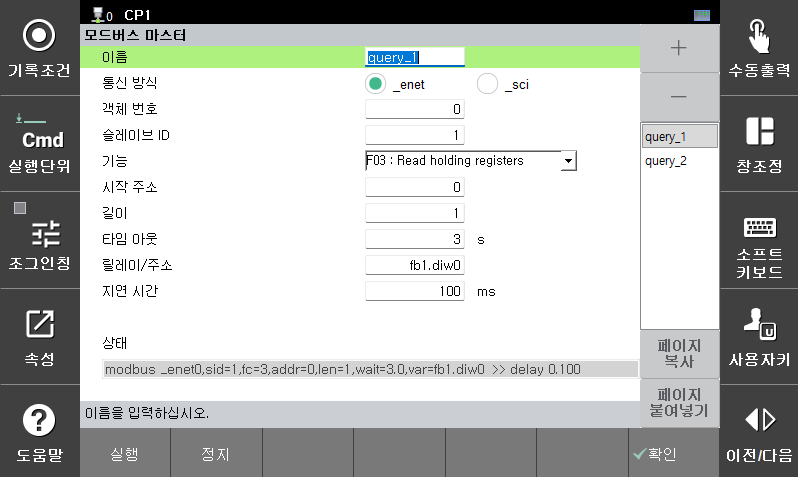
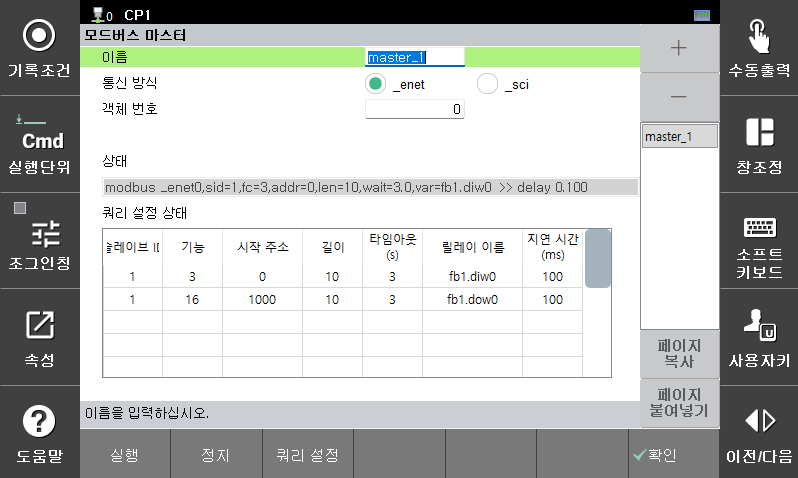
[HIXM-4880] 모드버스 마스터 기능 개발

diff --git a/book.md b/book.md
@@ -5,7 +5,7 @@
 [__SOURCE](0-about-this-manual/precautions.md)
 # 사전 주의사항
 
-{% include url="https://hrcontentsrelay-bmgae5hdbzapc4bc.koreacentral-01.azurewebsites.net/api/proxy?path=doc-common-pages/ko/precautions.md" %}
+{% include file="ko/precautions.md" %}
 
 [__SOURCE](1-intro/README.md)
 # 1. 개요
@@ -69,13 +69,16 @@ ${cont_model} 로봇 제어기는 시리얼 통신과 이더넷 통신에 의한
 
 
 ### <mark style="color:green;">5. 지원 펑션</mark>
+* 01: read coils (bits)
+* 02: read discrete inputs (bits)
+* 03: read holding registers 
+* 04: read input registers (multiple)
+* 05: write single coil (bit)
+* 06: write single holding register
+* 15: write coils (bits)
+* 16: write holding registers (multiple)
 
-| **운영 방식** |         **시리얼 / 이더넷 통신**                                                                                                                                                                                                                                                                                                                                                                                     |
-| :-------: | ------------------------------------------------------------------------------------------------------------------------------------------------------------------------------------------------------------------------------------------------------------------------------------------------------------------------------------------------------------------------------------------------------------ |
-| Master 운영 | <ul><li>03: read holding registers (multiple)</li><li>16: write holding registers (multiple)<li>04: read input registers (multiple)</li></li></ul>                                                                                                                                                                                                                                                                                                       |
-|  Slave 운영 | <ul><li>01: read coils (bits)</li><li>02: read discrete inputs (bits)</li><li>03: read holding registers (multiple)                                                              </li><li>04: read input registers (multiple)</li><li>05: write single coil (bit)</li><li>06: write single holding register</li><li>15: write coils (multiple bits)</li><li>16: write holding registers (multiple)</li></ul> |
-
-
+<br>
 
 ### <mark style="color:green;">6. 슬레이브 주소</mark>
 
@@ -274,9 +277,9 @@ modbus _enet0,sid=1,fc=3,addr=0,len=10,wait=3.0,var=_mw10  # 이더넷통신
 | :---: | ------------------------------------------------------------------------------------------------------- | :-------: |
 | _sci2 or _enet0 | <p>시리얼포트 또는 이더넷객체 (str)</p><ul><li>_sci2 : 시리얼포트 2</li><li>_enet0 : 이더넷객체 0</li></ul>                                         | "_sci2" or "_enet0" |
 | sid  | 슬래이브 ID(1~247) (int)                                                      | 1 |
-| fc | <p>펑션코드 (int)</p><ul><li>3 : read holding registers</li><li>16 : write holding registers</li><li>4 : read input registers</li></ul>                                         | 3 / 16 / 4 |
+| fc | 펑션코드 (int), 2.5 지원 펑션 참고                     | 3 / 16 |
 | addr  | 슬래이브의 시작주소 (0~65534) (int)                                                       | 0 |
-| len  | 데이터 개수 (1~127) (int)                                                     | 10 |
+| len  | 데이터 개수 (words : 1~127, bits : 1~2000) (int)                                                     | 10 |
 | wait  | timeout 시간 (sec) (double), 지정하지 않으면 무한대기                                                       | 3.0 |
 | var  | int형 배열 변수, 데이터 메모리(_mw0), 입력신호(fb2.diw0), 출력신호(fb3.dow0)                                                       | arr / _mw0 / fb1.diw0 |
 
@@ -309,22 +312,23 @@ Hyundai Robot Job File; { version: 2.0, mech_type: "", total_axis: -1, aux_axis:
 
 
 **\[시스템 > 2: 제어 파라미터 > 9: 네트워크 > 2: 서비스 > 5: 모드버스 마스터]** 화면에서 설정합니다. <br>
-"+"버튼을 사용하여 쿼리를 추가할 수 있으며 또한 현재 쿼리 실행 상태에 대한 모니터링이 가능합니다. <br>
+"+"버튼을 사용하여 마스터를 추가할 수 있습니다. <br>
 
 ![](../_assets/image33.png)
 
 [정지] 버튼으로 마스터 실행을 강제로 정지할 수 있으며 [실행] 버튼으로 다시 실행할 수 있습니다. <br>
+[쿼리 설정] 버튼으로 쿼리를 구성할 수 있습니다. <br>
 제어기 부팅후에는 설정된 쿼리가 순차적으로 자동으로 실행됩니다. <br>
 
 
 *   **이름**
 
-    쿼리 객체의 이름입니다. 각각의 이름은 반드시 "query_?"로 설정되어야 합니다.
+    마스터 객체의 이름입니다. 각각의 이름은 반드시 "master_?"로 설정되어야 합니다.
 
 
 *   **통신 방식**
 
-    이더넷 통신 또는 시리얼 통신의 통신 방식을 선택합니다.
+    해당 마스터의 통신 방식을 선택합니다. (이더넷 또는 시리얼)
 
 
 *   **객체 번호**
@@ -333,17 +337,29 @@ Hyundai Robot Job File; { version: 2.0, mech_type: "", total_axis: -1, aux_axis:
     시리얼 통신의 경우는 현재 2만 사용이 가능합니다. 
 
 
+*   **상태**
+
+    동작중 쿼리의 실행 상태를 로봇언어 명령어로 구성하여 표시합니다. 동작이 정지된 경우에는 "Stopped"를 표시합니다. 
+
+*   **쿼리 설정 상태**
+
+    해당 마스터에 구성된 쿼리의 설정 상태를 표시합니다. 
+<br>
+<br>
+
+![](../_assets/image34.png)
+
+[추가] 버튼으로 새로운 쿼리를 추가할 수 있으며 [삭제하기] 버튼으로 해당 쿼리를 삭제할 수 있습니다. <br>
+
+
 *   **슬레이브 ID**
 
     슬레이브 ID(1~247)를 설정합니다.
 
 
-*   **기능**
+*   **펑션**
 
-    펑션코드를 설정합니다. <br>
-    F03 : read holding registers <br>
-    F16 : write holding registers <br>
-    F04 : read input registers <br>
+    펑션코드를 설정합니다. [펑션 정보] 버튼으로 지원하는 펑션들을 확인할 수 있습니다. <br>
 
 
 *   **시작 주소**
@@ -353,7 +369,7 @@ Hyundai Robot Job File; { version: 2.0, mech_type: "", total_axis: -1, aux_axis:
 
 *   **길이**
 
-    데이터 개수(1~127)를 설정합니다. 
+    데이터 개수(words : 1~127, bits : 1~2000)를 설정합니다. 
 
 
 *   **타임 아웃**
@@ -361,16 +377,13 @@ Hyundai Robot Job File; { version: 2.0, mech_type: "", total_axis: -1, aux_axis:
     타임아웃 시간(sec)을 설정합니다. 0으로 설정하면 무한대기 합니다. 
 
 
-*   **릴레이/주소**
+*   **릴레이 이름**
 
-    릴레이(데이터 메모리/입출력신호 등) 명칭이나 모드버스 슬래이브 주소로 설정합니다. 
+    릴레이(데이터 메모리/입출력신호 등) 명칭으로 설정합니다. 
 
 
 *   **지연 시간**
 
-    해당 쿼리가 실행된 후 다음 쿼리가 실행하기까지의 지연시간을 설정합니다. 
+    해당 쿼리가 실행된 후 다음 쿼리가 실행하기까지의 지연시간(ms)을 설정합니다. 
 
 
-*   **상태**
-
-    동작중 쿼리의 실행 상태를 로봇언어 명령어로 구성하여 표시합니다. 

diff --git a/4-modbus-master/2-setup.md b/4-modbus-master/2-setup.md
@@ -6,22 +6,23 @@
 
 
 **\[시스템 > 2: 제어 파라미터 > 9: 네트워크 > 2: 서비스 > 5: 모드버스 마스터]** 화면에서 설정합니다. <br>
-"+"버튼을 사용하여 쿼리를 추가할 수 있으며 또한 현재 쿼리 실행 상태에 대한 모니터링이 가능합니다. <br>
+"+"버튼을 사용하여 마스터를 추가할 수 있습니다. <br>
 
 ![](../_assets/image33.png)
 
 [정지] 버튼으로 마스터 실행을 강제로 정지할 수 있으며 [실행] 버튼으로 다시 실행할 수 있습니다. <br>
+[쿼리 설정] 버튼으로 쿼리를 구성할 수 있습니다. <br>
 제어기 부팅후에는 설정된 쿼리가 순차적으로 자동으로 실행됩니다. <br>
 
 
 *   **이름**
 
-    쿼리 객체의 이름입니다. 각각의 이름은 반드시 "query_?"로 설정되어야 합니다.
+    마스터 객체의 이름입니다. 각각의 이름은 반드시 "master_?"로 설정되어야 합니다.
 
 
 *   **통신 방식**
 
-    이더넷 통신 또는 시리얼 통신의 통신 방식을 선택합니다.
+    해당 마스터의 통신 방식을 선택합니다. (이더넷 또는 시리얼)
 
 
 *   **객체 번호**
@@ -30,20 +31,29 @@
     시리얼 통신의 경우는 현재 2만 사용이 가능합니다. 
 
 
+*   **상태**
+
+    동작중 쿼리의 실행 상태를 로봇언어 명령어로 구성하여 표시합니다. 동작이 정지된 경우에는 "Stopped"를 표시합니다. 
+
+*   **쿼리 설정 상태**
+
+    해당 마스터에 구성된 쿼리의 설정 상태를 표시합니다. 
+<br>
+<br>
+
+![](../_assets/image34.png)
+
+[추가] 버튼으로 새로운 쿼리를 추가할 수 있으며 [삭제하기] 버튼으로 해당 쿼리를 삭제할 수 있습니다. <br>
+
+
 *   **슬레이브 ID**
 
     슬레이브 ID(1~247)를 설정합니다.
 
 
-*   **기능**
+*   **펑션**
 
-    펑션코드를 설정합니다. <br>
-    F01 : read coils (bits) <br>
-    F02 : read discrete inputs (bits) <br>
-    F03 : read holding registers <br>
-    F04 : read input registers <br>
-    F15 : write coils (bits) <br>
-    F16 : write holding registers <br>
+    펑션코드를 설정합니다. [펑션 정보] 버튼으로 지원하는 펑션들을 확인할 수 있습니다. <br>
 
 
 *   **시작 주소**
@@ -68,9 +78,6 @@
 
 *   **지연 시간**
 
-    해당 쿼리가 실행된 후 다음 쿼리가 실행하기까지의 지연시간을 설정합니다. 
+    해당 쿼리가 실행된 후 다음 쿼리가 실행하기까지의 지연시간(ms)을 설정합니다. 
 
 
-*   **상태**
-
-    동작중 쿼리의 실행 상태를 로봇언어 명령어로 구성하여 표시합니다. 

diff --git a/1-intro/2-modbus-func.md b/1-intro/2-modbus-func.md
@@ -47,13 +47,16 @@ ${cont_model} 로봇 제어기는 시리얼 통신과 이더넷 통신에 의한
 
 
 ### <mark style="color:green;">5. 지원 펑션</mark>
+* 01: read coils (bits)
+* 02: read discrete inputs (bits)
+* 03: read holding registers 
+* 04: read input registers (multiple)
+* 05: write single coil (bit)
+* 06: write single holding register
+* 15: write coils (bits)
+* 16: write holding registers (multiple)
 
-| **운영 방식** |         **시리얼 / 이더넷 통신**                                                                                                                                                                                                                                                                                                                                                                                     |
-| :-------: | ------------------------------------------------------------------------------------------------------------------------------------------------------------------------------------------------------------------------------------------------------------------------------------------------------------------------------------------------------------------------------------------------------------ |
-| Master 운영 | <ul><li>01: read coils (bits)</li><li>02: read discrete inputs (bits)</li><li>03: read holding registers (multiple)</li><li>04: read input registers (multiple)</li><li>15: write coils (bits)</li><li>16: write holding registers (multiple)</li></ul>                                                                                                                                                                                                                                                                                                       |
-|  Slave 운영 | <ul><li>01: read coils (bits)</li><li>02: read discrete inputs (bits)</li><li>03: read holding registers (multiple)                                                              </li><li>04: read input registers (multiple)</li><li>05: write single coil (bit)</li><li>06: write single holding register</li><li>15: write coils (bits)</li><li>16: write holding registers (multiple)</li></ul> |
-
-
+<br>
 
 ### <mark style="color:green;">6. 슬레이브 주소</mark>
 

diff --git a/4-modbus-master/1-roblang.md b/4-modbus-master/1-roblang.md
@@ -18,7 +18,7 @@ modbus _enet0,sid=1,fc=3,addr=0,len=10,wait=3.0,var=_mw10  # 이더넷통신
 | :---: | ------------------------------------------------------------------------------------------------------- | :-------: |
 | _sci2 or _enet0 | <p>시리얼포트 또는 이더넷객체 (str)</p><ul><li>_sci2 : 시리얼포트 2</li><li>_enet0 : 이더넷객체 0</li></ul>                                         | "_sci2" or "_enet0" |
 | sid  | 슬래이브 ID(1~247) (int)                                                      | 1 |
-| fc | <p>펑션코드 (int)</p><ul><li>01: read coils (bits)</li><li>02: read discrete inputs (bits)</li><li>03: read holding registers (multiple)</li><li>04: read input registers (multiple)</li><li>15: write coils (bits)</li><li>16: write holding registers (multiple)</li></ul>                                         | 3 / 16 |
+| fc | 펑션코드 (int), 2.5 지원 펑션 참고                     | 3 / 16 |
 | addr  | 슬래이브의 시작주소 (0~65534) (int)                                                       | 0 |
 | len  | 데이터 개수 (words : 1~127, bits : 1~2000) (int)                                                     | 10 |
 | wait  | timeout 시간 (sec) (double), 지정하지 않으면 무한대기                                                       | 3.0 |
